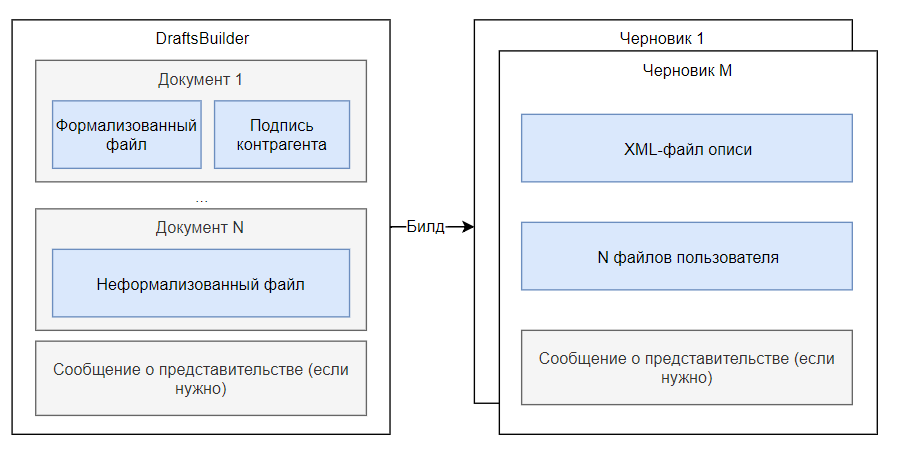
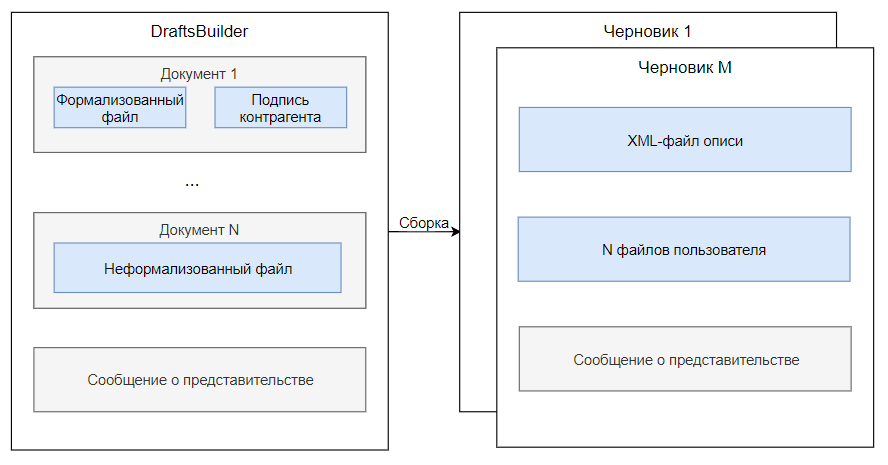
исправила ссылки

Changed region(s): [[0.0, 0.0, 1.0, 0.9782]]

diff --git a/docs/inventories/опись.rst b/docs/inventories/опись.rst
@@ -17,10 +17,10 @@
 DraftsBuilder
 -------------
 
-Для формирования черновика и XML-файла описи мы создали помощник DraftsBuilder. Он строит черновики из загруженных файлов, подписей контрагентов и сообщения о представительстве (доверенности). XML-файл описи будет состоять из списка документов с привязкой пункта требования, в документах будут перечислены файлы для налогового органа и подписи.
+Для формирования черновика и XML-файла описи мы создали помощник DraftsBuilder. Он строит шаблон из загруженных файлов, подписей контрагентов и сообщения о представительстве (доверенности) и собирает созданный шаблон в черновик. XML-файл описи будет состоять из списка документов с привязкой пункта требования, в документах будут перечислены файлы для налогового органа и подписи.
 
 Замечание про подписи
-    *Существует два вида подписи: подпись контрагента, которая подкладывается к формализованным файлам, и подпись отправителя. Подпись контрагента нужно :ref:`подписывать КЭП отправителя описи<rst-markup-reply-doc-signature>`, так же как и остальные файлы черновика перед отправкой*.   
+    Существует два вида подписи: подпись контрагента, которая подкладывается к формализованным файлам, и подпись отправителя. Подпись контрагента нужно :ref:`подписывать КЭП отправителя описи<rst-markup-reply-doc-signature>`, так же как и остальные файлы черновика перед отправкой.   
 
 Замечание про документы и файлы
     Нужно разделять сущности документа и файла в DraftsBuilder. Документ является контейнером для файлов. Файл — это файл пользователя, который он отправляет в налоговый орган. Файлы могут быть формализованные и неформализованные, подробнее читайте `в справке`_.
@@ -68,7 +68,7 @@ DraftsBuilder
 
  Метод собирает все добавленные файлы и документы DraftsBuilder шаблона в черновики. В результате метод вернет идентификаторы черновиков, в каждом из которых находится: XML-файл описи, файлы, сообщение о представительстве (если есть).
 
-**Для редактирования содержимого DraftsBuilder смотри описание методов DraftsBuilder**.
+Для редактирования содержимого DraftsBuilder смотри описание :doc:`методов DraftsBuilder</inventories/методы билдера>`.
 
 5. Работа с черновиком. Черновик описи проверяется, подписывается КЭП и отправляется при помощи методов :doc:`для работы с черновиками<\drafts>`. После отправки черновика вы получите идентификатор документооборота.
 

diff --git a/docs/inventories/методы до описи.rst b/docs/inventories/методы до описи.rst
@@ -43,6 +43,7 @@
 * отображать пользователю списки его документооборотов, применяя различные фильтры.
 
 .. _rst-markup-get-inventory-dc:
+
 Получение документооборота описи
 --------------------------------
 Метод: `GET GetOneInventoryDocflow`_
@@ -94,6 +95,7 @@
 При помощи данного метода можно получить печатную форму формализованного документа в документообороте. Печать документов происходит только после проверки подписей под печатаемыми документами, тем самым подтверждается валидность и неизменность печатаемых документов.
 
 .. _rst-markup-replymethods:
+
 Методы для работы с ответными документами
 =========================================
 На входящие документы от налогового органа налогоплательщик должен отправлять определенные ответные документы. Представленные ниже методы позволяют формировать подобные технологические документы и работать с ними. Также необходимые ссылки для формирования ответных документов будут появляться в работе с :ref:`методом получения документооборота<rst-markup-get-inventory-dc>`.
@@ -117,6 +119,7 @@
 Метод обновляет контент ответного документа.
 
 .. _rst-markup-reply-doc-signature:
+
 Добавление подписи к ответному документу
 ----------------------------------------
 Метод: `PUT SaveReplyDocumentSignature`_

diff --git a/docs/inventories/методы билдера.rst b/docs/inventories/методы билдера.rst
@@ -32,6 +32,7 @@
    :depth: 2
 
 .. _rst-markup-createDB:
+
 Создание DraftsBuilder
 ----------------------
 Метод: `POST CreateDraftsBuilder`_
@@ -61,6 +62,7 @@
 Метод обновляет метаинформацию DraftsBuilder.
 
 .. _rst-markup-build-DB:
+
 Сборка содержимого DraftsBuilder в черновик
 -------------------------------------------
 Метод: `POST BuildDrafts`_
@@ -96,6 +98,7 @@
 По идентификатору DraftsBuilderId метод находит список созданных в нем документов, для каждого возвращается: идентификатор документа, идентификатор DraftsBuilder, метаинформация.
 
 .. _rst-markup-create-docDB:
+
 Создание документа
 ------------------
 Метод: `POST CreateDraftsBuilderDocument`_
@@ -136,6 +139,7 @@
 По идентификатору DraftsBuilder и документу в нем метод находит список добавленных файлов.
 
 .. _rst-markup-create-fileDB:
+
 Создание файла в документе
 --------------------------
 Метод: `POST CreateDraftsBuilderDocumentFile`_
